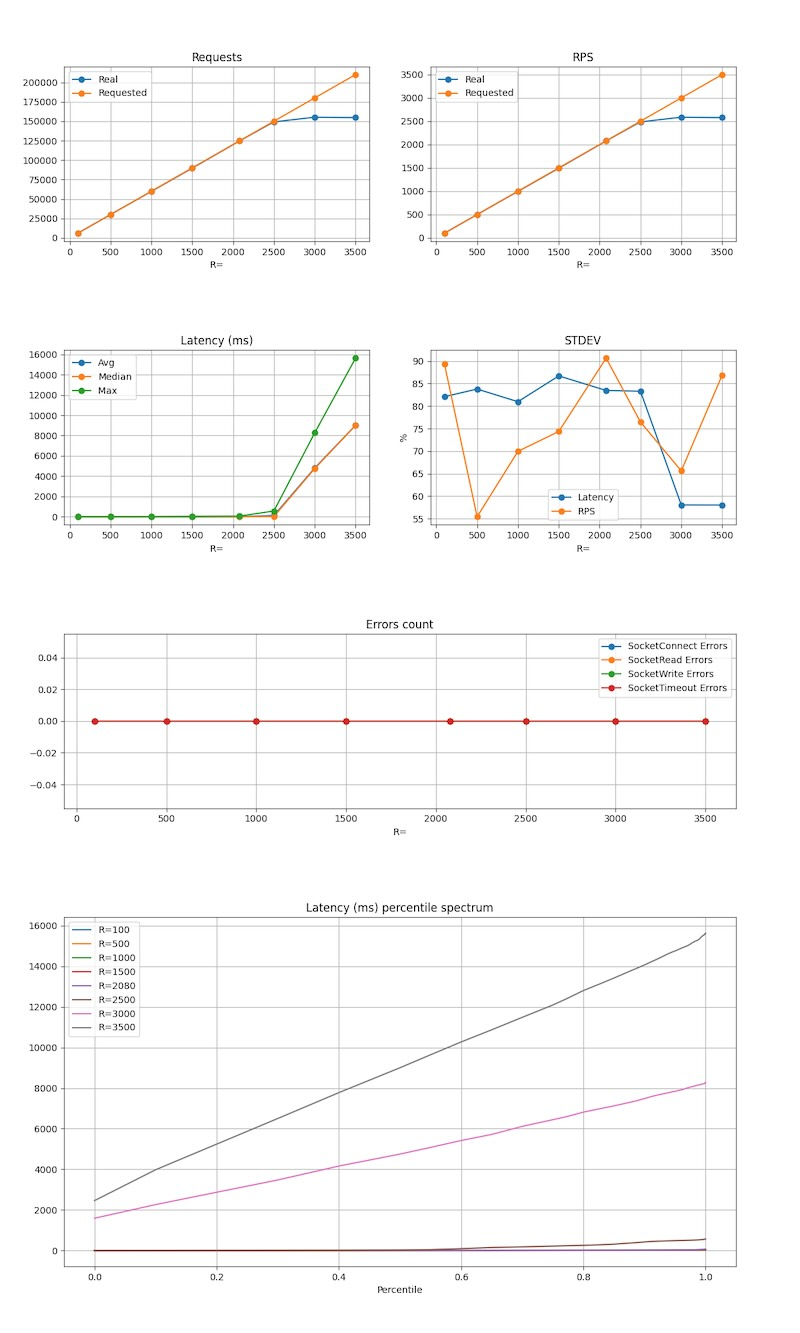
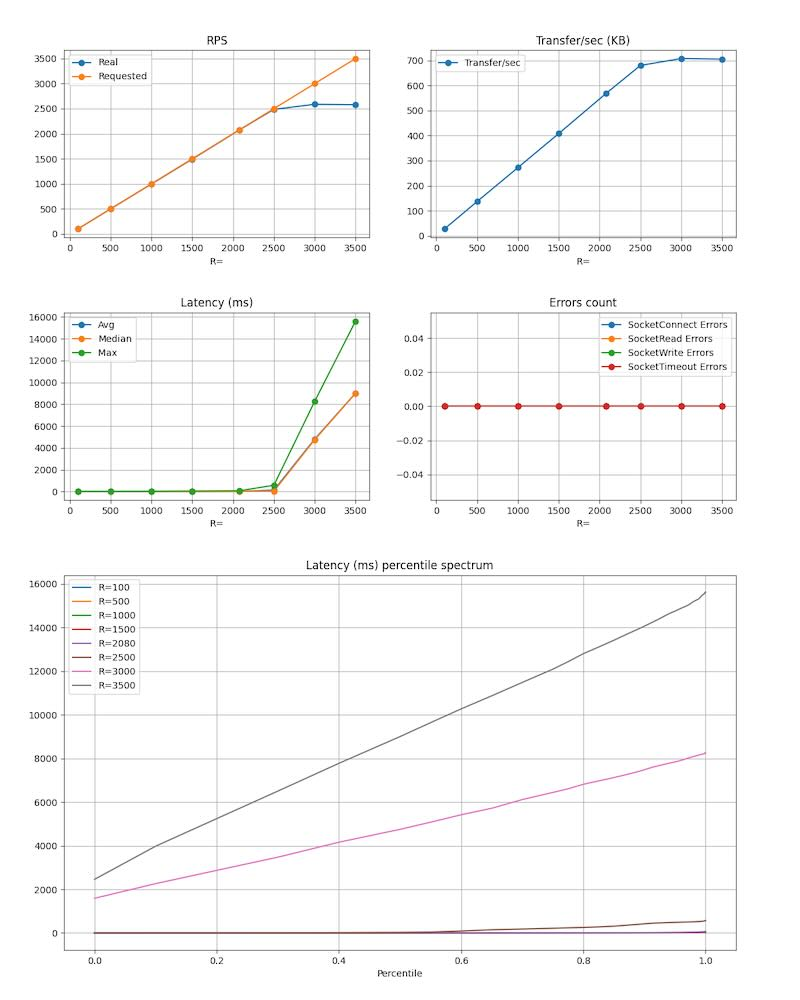
chart fix

diff --git a/wrk_parser.py b/wrk_parser.py
@@ -5,6 +5,37 @@ import matplotlib.pyplot as plt
 import numpy as np
 from matplotlib.gridspec import GridSpec
 
+def convert_to_kilobytes(value):
+    unit_mapping = {
+        "B": 1 / 1024,      # Байт в килобайты
+        "KB": 1,
+        "MB": 1024,
+        "GB": 1024 * 1024,
+        "TB": 1024 * 1024 * 1024
+    }
+
+    unit = value[-2:]
+    if unit in unit_mapping:
+        try:
+            val_str = value[:-2]  # Получаем числовую часть (исключая единицы измерения)
+            val = float(val_str)
+            return val * unit_mapping[unit]
+        except ValueError:
+            print("Невозможно преобразовать значение времени в число:", value)
+    else:
+        unit = value[-1]  # Если нет единиц времени, пробуем взять последний символ
+        if unit in unit_mapping:
+            try:
+                val_str = value[:-1]  # Получаем числовую часть (исключая единицы измерения)
+                val = float(val_str)
+                return val * unit_mapping[unit]
+            except ValueError:
+                print("Невозможно преобразовать значение времени в число:", value)
+        else:
+            print("Неизвестные единицы времени:", unit)
+
+    return None
+
 def convert_to_ms(value):
     unit_mapping = {
         'μs': 0.001,
@@ -162,28 +193,25 @@ if __name__ == "__main__":
 
 
     # Создание фигуры и GridSpec
-    fig = plt.figure(figsize=(12, 20))
-    gs = GridSpec(4, 2, figure=fig, top=0.95, bottom=0.05, left=0.08, right=0.92, hspace=0.5, height_ratios=[1, 1, 1, 2])
+    fig = plt.figure(figsize=(12, 15))
+    gs = GridSpec(3, 2, figure=fig, top=0.95, bottom=0.05, left=0.08, right=0.92, hspace=0.3, height_ratios=[1, 1, 2])
 
     rs = [int(item["iteration_settings"]["R"]) for item in parsed_results]
 
     ax1 = fig.add_subplot(gs[0, 0])
-    requestsReal = [int(item["total"]["requests"]) for item in parsed_results]
-    requestsRequested = [int(item["iteration_settings"]["R"])*int(item["iteration_settings"]["d"]) for item in parsed_results]
-    ax1.plot(rs, requestsReal, label='Real', marker='o')
-    ax1.plot(rs, requestsRequested, label='Requested', marker='o')
-    ax1.set_title('Requests')
+    RPSs = [float(item["total"]["requests_per_sec"]) for item in parsed_results]
+    ax1.plot(rs, RPSs, label='Real', marker='o')
+    ax1.plot(rs, rs, label='Requested', marker='o')
+    ax1.set_title('RPS')
     ax1.set_xlabel('R=')
     ax1.legend()
     ax1.grid(True)
 
     ax2 = fig.add_subplot(gs[0, 1])
-    RPSs = [float(item["total"]["requests_per_sec"]) for item in parsed_results]
-    ax2.plot(rs, RPSs, label='Real', marker='o')
-    ax2.plot(rs, rs, label='Requested', marker='o')
-    ax2.set_title('RPS')
+    requestsReal = [convert_to_kilobytes(item["total"]["transfer_per_sec"]) for item in parsed_results]
+    ax2.plot(rs, requestsReal, label='Transfer/sec', marker='o')
+    ax2.set_title('Transfer/sec (KB)')
     ax2.set_xlabel('R=')
-    ax2.legend()
     ax2.grid(True)
 
     ax3 = fig.add_subplot(gs[1, 0])
@@ -199,33 +227,21 @@ if __name__ == "__main__":
     ax3.grid(True)
 
     ax4 = fig.add_subplot(gs[1, 1])
-    stdevLatencies = [float(item["latency"]["stdev_percent"][:-1]) for item in parsed_results]
-    stdevRPS = [float(item["req_per_sec"]["stdev_percent"][:-1]) for item in parsed_results]
-    ax4.plot(rs, stdevLatencies, label='Latency', marker='o')
-    ax4.plot(rs, stdevRPS, label='RPS', marker='o')
-    ax4.set_title('STDEV')
+    socket_connect_errors = [int(item["errors"]["socket_connect"]) for item in parsed_results]
+    socket_read_errors = [int(item["errors"]["socket_read"]) for item in parsed_results]
+    socket_write_errors = [int(item["errors"]["socket_write"]) for item in parsed_results]
+    socket_timeout_errors = [int(item["errors"]["socket_timeout"]) for item in parsed_results]
+    ax4.plot(rs, socket_connect_errors, label='SocketConnect Errors', marker='o')
+    ax4.plot(rs, socket_read_errors, label='SocketRead Errors', marker='o')
+    ax4.plot(rs, socket_write_errors, label='SocketWrite Errors', marker='o')
+    ax4.plot(rs, socket_timeout_errors, label='SocketTimeout Errors', marker='o')
+    ax4.set_title('Errors count')
     ax4.set_xlabel('R=')
-    ax4.set_ylabel('%')
     ax4.legend()
     ax4.grid(True)
 
     ax5 = fig.add_subplot(gs[2, :])
     inner_ax1 = ax5
-    socket_connect_errors = [int(item["errors"]["socket_connect"]) for item in parsed_results]
-    socket_read_errors = [int(item["errors"]["socket_read"]) for item in parsed_results]
-    socket_write_errors = [int(item["errors"]["socket_write"]) for item in parsed_results]
-    socket_timeout_errors = [int(item["errors"]["socket_timeout"]) for item in parsed_results]
-    inner_ax1.plot(rs, socket_connect_errors, label='SocketConnect Errors', marker='o')
-    inner_ax1.plot(rs, socket_read_errors, label='SocketRead Errors', marker='o')
-    inner_ax1.plot(rs, socket_write_errors, label='SocketWrite Errors', marker='o')
-    inner_ax1.plot(rs, socket_timeout_errors, label='SocketTimeout Errors', marker='o')
-    inner_ax1.set_title('Errors count')
-    inner_ax1.set_xlabel('R=')
-    inner_ax1.legend()
-    inner_ax1.grid(True)
-
-    ax6 = fig.add_subplot(gs[3, :])
-    inner_ax2 = ax6
     for item in parsed_results:
         r_value = item["iteration_settings"]["R"]
         percentiles = sorted(item["percentile_spectrum"].keys())
@@ -234,12 +250,12 @@ if __name__ == "__main__":
         # Преобразуем процентили в числа с плавающей запятой
         percentiles_float = np.array(percentiles, dtype=float)
 
-        inner_ax2.plot(percentiles_float, np.interp(percentiles_float, percentiles_float, latency_values), label=f'R={r_value}')
+        inner_ax1.plot(percentiles_float, np.interp(percentiles_float, percentiles_float, latency_values), label=f'R={r_value}')
 
-    inner_ax2.set_title('Latency (ms) percentile spectrum')
-    inner_ax2.set_xlabel('Percentile')
-    inner_ax2.legend()
-    inner_ax2.grid(True)
+    inner_ax1.set_title('Latency (ms) percentile spectrum')
+    inner_ax1.set_xlabel('Percentile')
+    inner_ax1.legend()
+    inner_ax1.grid(True)
 
     chart_filename = f"{input_filename[:-4]}_chart.png"
     plt.savefig(chart_filename)
